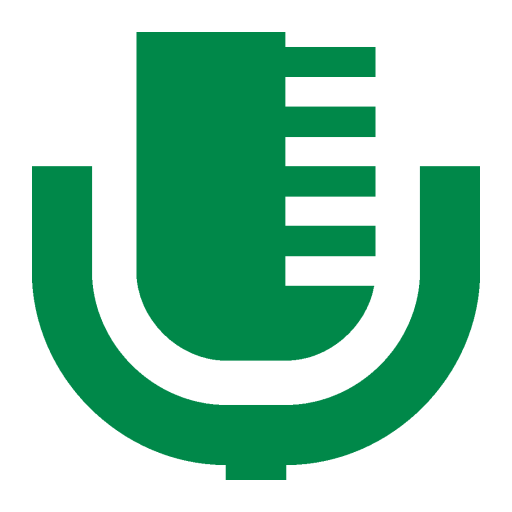
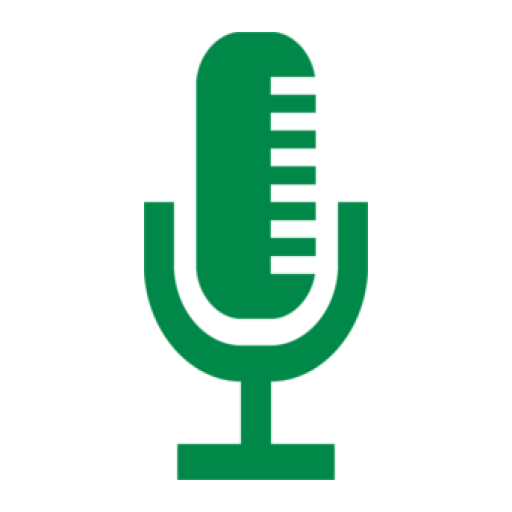
added selectors to ShareFragment layout + pic now saved as ParseFile

diff --git a/app/src/main/java/com/gcw/sapienza/places/ShareFragment.java b/app/src/main/java/com/gcw/sapienza/places/ShareFragment.java
@@ -1,5 +1,6 @@
 package com.gcw.sapienza.places;
 
+import android.app.Activity;
 import android.content.Context;
 import android.graphics.Bitmap;
 import android.location.Location;
@@ -16,6 +17,7 @@ import android.view.animation.AlphaAnimation;
 import android.view.inputmethod.InputMethodManager;
 import android.widget.Button;
 import android.widget.FrameLayout;
+import android.widget.ImageButton;
 import android.widget.ImageView;
 import android.widget.Spinner;
 import android.widget.TextView;
@@ -30,6 +32,7 @@ import com.parse.ParseAnalytics;
 import com.parse.ParseException;
 import com.parse.ParseFile;
 import com.parse.ParseGeoPoint;
+import com.parse.ProgressCallback;
 import com.parse.SaveCallback;
 
 import java.io.ByteArrayOutputStream;
@@ -50,9 +53,9 @@ public class ShareFragment extends Fragment{
     private Button shareButton;
     private FrameLayout progressBarHolder;
 
-    protected static ImageView picButton;
-    protected static ImageView micButton;
-    protected static ImageView vidButton;
+    protected static ImageButton picButton;
+    protected static ImageButton micButton;
+    protected static ImageButton vidButton;
 
     protected static boolean clearMedia = true;
 
@@ -60,8 +63,7 @@ public class ShareFragment extends Fragment{
     protected static boolean isVideoShoot = false;
     protected static boolean isSoundCaptured = false;
 
-    protected static Bitmap pic; // for compatibiity
-    protected static byte[] picture;
+    protected static Bitmap pic;
     protected static byte[] video;
     protected static byte[] audio;
 
@@ -89,9 +91,9 @@ public class ShareFragment extends Fragment{
 
         this.progressBarHolder = (FrameLayout)mView.findViewById(R.id.frame_layout);
 
-        this.picButton = (ImageView)mView.findViewById(R.id.pic_button);
-        this.micButton = (ImageView)mView.findViewById(R.id.mic_button);
-        this.vidButton = (ImageView)mView.findViewById(R.id.vid_button);
+        this.picButton = (ImageButton)mView.findViewById(R.id.pic_button);
+        this.micButton = (ImageButton)mView.findViewById(R.id.mic_button);
+        this.vidButton = (ImageButton)mView.findViewById(R.id.vid_button);
 
         this.picButton.setOnLongClickListener((View.OnLongClickListener)getActivity());
         this.micButton.setOnLongClickListener((View.OnLongClickListener)getActivity());
@@ -211,9 +213,24 @@ public class ShareFragment extends Fragment{
                         Log.v(TAG, "Successfully retrieved pic.");
 
                         ByteArrayOutputStream stream = new ByteArrayOutputStream();
-                        pic.compress(Bitmap.CompressFormat.JPEG, 100, stream);
-                        byte[] byteArray = stream.toByteArray();
-                        f.put("pic", byteArray);
+                        pic.compress(Bitmap.CompressFormat.PNG, 100, stream);
+                        byte[] pic_byteArray = stream.toByteArray();
+
+                        ParseFile parse_pic = new ParseFile(System.currentTimeMillis()+".png", pic_byteArray);
+
+                        parse_pic.saveInBackground(new SaveCallback() {
+                            @Override
+                            public void done(ParseException e)
+                            {
+                                if(e != null) Toast.makeText(getActivity(), "Error encountered while uploading picture", Toast.LENGTH_LONG).show();
+                            }
+                        }, new ProgressCallback() {
+                            @Override
+                            public void done(Integer integer) {
+                                // TODO maybe we could display a progress bar while uploading pic
+                            }
+                        });
+                        f.put("picture", parse_pic);
                     }
                 }
 
@@ -231,8 +248,18 @@ public class ShareFragment extends Fragment{
 
                         ParseFile parse_audio = new ParseFile(System.currentTimeMillis()+".3gp", ShareFragment.audio);
 
-                        // TODO maybe we should wait for it, in the meantime showing a progress bar
-                        parse_audio.saveInBackground();
+                        parse_audio.saveInBackground(new SaveCallback() {
+                            @Override
+                            public void done(ParseException e)
+                            {
+                                if(e != null) Toast.makeText(getActivity(), "Error encountered while uploading recording", Toast.LENGTH_LONG).show();
+                            }
+                        }, new ProgressCallback() {
+                            @Override
+                            public void done(Integer integer) {
+                                // TODO maybe we could display a progress bar while uploading recording
+                            }
+                        });
                         f.put("audio", parse_audio);
                     }
                 }
@@ -295,41 +322,58 @@ public class ShareFragment extends Fragment{
     protected void setPicButtonAsPicTaken()
     {
         this.mView = getView();
-        this.picButton = (ImageView)this.mView.findViewById(R.id.pic_button);
-        this.picButton.setAlpha(MEDIA_AVAILABLE_ALPHA);
+        this.picButton = (ImageButton)this.mView.findViewById(R.id.pic_button);
+        this.picButton.setImageDrawable(getResources().getDrawable(R.drawable.camera_green_taken));
     }
 
     @Override
     public void onResume() {
         super.onResume();
 
+        Log.v(TAG, "onResume called in ShareFragment");
+
         onVisiblePage();
+    }
+
+    @Override
+    public void onAttach(Activity activity) {
+        super.onAttach(activity);
+
+        Log.v(TAG, "onAttach called in ShareFragment");
+
+        // onVisiblePage();
     }
 
     public void onVisiblePage()
     {
         Log.v(TAG, "ShareFragment visible!");
 
+        if(!isAdded())
+        {
+            Log.v(TAG, "ShareFragment not attached to MainActivity");
+            return;
+        }
+
         if(mView == null) mView = getView();
         if(mView != null)
         {
-            picButton = (ImageView)mView.findViewById(R.id.pic_button);
-            micButton = (ImageView)mView.findViewById(R.id.mic_button);
+            picButton = (ImageButton)mView.findViewById(R.id.pic_button);
+            micButton = (ImageButton)mView.findViewById(R.id.mic_button);
 
             if (pic != null) {
                 isPicTaken = true;
-                this.picButton.setAlpha(MEDIA_AVAILABLE_ALPHA);
+                this.picButton.setImageDrawable(getResources().getDrawable(R.drawable.camera_green_taken));
             } else {
                 isPicTaken = false;
-                this.picButton.setAlpha(1f);
+                this.picButton.setImageDrawable(getResources().getDrawable(R.drawable.cam_selector));
             }
 
             if (audio != null) {
                 isSoundCaptured = true;
-                this.micButton.setAlpha(MEDIA_AVAILABLE_ALPHA);
+                this.micButton.setImageDrawable(getResources().getDrawable(R.drawable.mic_green_taken));
             } else {
                 isSoundCaptured = false;
-                this.micButton.setAlpha(1f);
+                this.micButton.setImageDrawable(getResources().getDrawable(R.drawable.mic_selector));
             }
         }
     }
@@ -353,11 +397,13 @@ public class ShareFragment extends Fragment{
 
         this.textView.setText("");
 
-        this.picButton = (ImageView)this.mView.findViewById(R.id.pic_button);
-        this.picButton.setAlpha(1f);
+        this.spinner.setSelection(0);
 
-        this.micButton = (ImageView)this.mView.findViewById(R.id.mic_button);
-        this.micButton.setAlpha(1f);
+        this.picButton = (ImageButton)this.mView.findViewById(R.id.pic_button);
+        this.picButton.setImageDrawable(getResources().getDrawable(R.drawable.cam_selector));
+
+        this.micButton = (ImageButton)this.mView.findViewById(R.id.mic_button);
+        this.micButton.setImageDrawable(getResources().getDrawable(R.drawable.mic_selector));
 
         hideKeyboard();
 

diff --git a/app/src/main/java/com/gcw/sapienza/places/MainActivity.java b/app/src/main/java/com/gcw/sapienza/places/MainActivity.java
@@ -6,12 +6,14 @@ import android.app.ProgressDialog;
 import android.content.Context;
 import android.content.DialogInterface;
 import android.content.Intent;
+import android.content.SharedPreferences;
 import android.content.res.Resources;
 import android.graphics.Bitmap;
 import android.location.LocationManager;
 import android.media.MediaRecorder;
 import android.os.Bundle;
 import android.os.Environment;
+import android.os.PersistableBundle;
 import android.os.Vibrator;
 import android.provider.MediaStore;
 import android.support.v4.app.Fragment;
@@ -25,12 +27,10 @@ import android.view.Gravity;
 import android.view.Menu;
 import android.view.MenuItem;
 import android.view.View;
-import android.view.ViewGroup;
-import android.view.animation.Animation;
+import android.widget.ImageButton;
 import android.widget.TextView;
 import android.widget.Toast;
 
-import com.gcw.sapienza.places.services.LocationService;
 import com.gcw.sapienza.places.utils.FacebookUtilCallback;
 import com.gcw.sapienza.places.utils.FacebookUtils;
 import com.gcw.sapienza.places.utils.Utils;
@@ -42,9 +42,7 @@ import com.parse.ui.ParseLoginBuilder;
 import java.io.ByteArrayOutputStream;
 import java.io.File;
 import java.io.FileInputStream;
-import java.io.FileNotFoundException;
 import java.io.IOException;
-import java.io.InputStream;
 import java.util.Arrays;
 import java.util.Date;
 
@@ -109,11 +107,10 @@ public class MainActivity extends ActionBarActivity implements ViewPager.OnPageC
             this.startDownloadingFacebookInfo();
         }
 
+        if(savedInstanceState != null) ShareFragment.audio = savedInstanceState.getByteArray("audio");
 
         Resources res = getResources();
         Utils.categories = res.getStringArray(R.array.categories);
-
-        for(int i = 0; i < fragments.length; i++) fragments[i].setRetainInstance(true);
     }
 
     private void startDownloadingFacebookInfo(){
@@ -148,8 +145,13 @@ public class MainActivity extends ActionBarActivity implements ViewPager.OnPageC
         }
     }
 
-    protected void onSaveInstanceState(Bundle outState) {
+    protected void onSaveInstanceState(Bundle outState)
+    {
         super.onSaveInstanceState(outState);
+
+        Log.v(TAG, "onSaveInstanceState called!");
+
+        outState.putByteArray("audio", ShareFragment.audio);
     }
 
     @Override
@@ -271,14 +273,13 @@ public class MainActivity extends ActionBarActivity implements ViewPager.OnPageC
                         case DialogInterface.BUTTON_POSITIVE:
                             if(v.getId() == ShareFragment.picButton.getId())
                             {
-                                ShareFragment.picButton.setAlpha(1f);
+                                ShareFragment.picButton.setImageDrawable(getResources().getDrawable(R.drawable.cam_selector));
                                 ShareFragment.isPicTaken = false;
-                                ShareFragment.pic = null; // this is supposed to disappear in future releases
-                                ShareFragment.picture = null;
+                                ShareFragment.pic = null;
                             }
                             else if (v.getId() == ShareFragment.micButton.getId())
                             {
-                                ShareFragment.micButton.setAlpha(1f);
+                                ShareFragment.micButton.setImageDrawable(getResources().getDrawable(R.drawable.mic_selector));
                                 ShareFragment.isSoundCaptured = false;
                                 ShareFragment.audio = null;
                             }
@@ -483,7 +484,7 @@ public class MainActivity extends ActionBarActivity implements ViewPager.OnPageC
         Vibrator vibrator = (Vibrator) getSystemService(Context.VIBRATOR_SERVICE);
         vibrator.vibrate(Utils.VIBRATION_DURATION);
 
-        if(v.getAlpha() > 0.1f)
+        if(audioRec == null)
         {
             audio_filename = Environment.getExternalStorageDirectory().getAbsolutePath() + "/" + System.currentTimeMillis() + ".3gp";
 
@@ -502,20 +503,20 @@ public class MainActivity extends ActionBarActivity implements ViewPager.OnPageC
             }
 
             audioRec.start();
-            v.setAlpha(0.1f);
+
+            Toast.makeText(this, "Tap mic button again to stop recording", Toast.LENGTH_SHORT).show();
         }
         else
         {
             audioRec.stop();
             audioRec.release();
             audioRec = null;
-            v.setAlpha(ShareFragment.MEDIA_AVAILABLE_ALPHA);
+            ((ImageButton)v).setImageDrawable(getResources().getDrawable(R.drawable.mic_green_taken));
 
             File audio_file = new File(audio_filename);
             try
             {
                 FileInputStream inStream = new FileInputStream(audio_file);
-                byte[] audio = new byte[inStream.available()];
                 ShareFragment.audio = convertStreamToByteArray(inStream);
 
                 inStream.close();

diff --git a/app/src/main/java/com/gcw/sapienza/places/MosaicFragment.java b/app/src/main/java/com/gcw/sapienza/places/MosaicFragment.java
@@ -83,12 +83,23 @@ public class MosaicFragment extends Fragment{
 
                 Bundle bundle = new Bundle();
 
-                    bundle.putString("text", ((Flag) parent.getItemAtPosition(position)).getText());
-                    bundle.putString("id", ((Flag) parent.getItemAtPosition(position)).getFbId());
-                    bundle.putString("date", sDate);
-                    bundle.putByteArray("pic", ((Flag) parent.getItemAtPosition(position)).getPic());
-                    bundle.putString("weather", ((Flag) parent.getItemAtPosition(position)).getWeather());
-                    bundle.putString("category", ((Flag) parent.getItemAtPosition(position)).getCategory());
+                bundle.putString("text", ((Flag) parent.getItemAtPosition(position)).getText());
+                bundle.putString("id", ((Flag) parent.getItemAtPosition(position)).getFbId());
+                bundle.putString("date", sDate);
+                // bundle.putByteArray("pic", ((Flag) parent.getItemAtPosition(position)).getPic());
+                bundle.putString("weather", ((Flag) parent.getItemAtPosition(position)).getWeather());
+                bundle.putString("category", ((Flag) parent.getItemAtPosition(position)).getCategory());
+
+                try {
+                    ParseFile pic_file;
+                    if((pic_file = ((Flag) parent.getItemAtPosition(position)).getPic()) != null)
+                        bundle.putByteArray("picture", pic_file.getData());
+                }
+                catch(com.parse.ParseException pe)
+                {
+                    Log.v(TAG, "Parse file couldn't be retrieved");
+                    pe.printStackTrace();
+                }
 
                 try {
                     ParseFile audio_file;

diff --git a/app/src/main/java/com/gcw/sapienza/places/activities/FlagsListFragment.java b/app/src/main/java/com/gcw/sapienza/places/activities/FlagsListFragment.java
@@ -24,6 +24,7 @@ import com.gcw.sapienza.places.utils.FacebookUtilCallback;
 import com.gcw.sapienza.places.utils.FacebookUtils;
 import com.parse.FindCallback;
 import com.parse.ParseException;
+import com.parse.ParseFile;
 import com.parse.ParseGeoPoint;
 import com.parse.ParseQuery;
 import com.squareup.picasso.Picasso;
@@ -106,7 +107,22 @@ class FlagsAdapter extends RecyclerView.Adapter <FlagsAdapter.FlagsViewHolder>{
             }
         });
 
-        byte[] pic = f.getPic();
+        byte[] pic = null;
+
+        try
+        {
+            if(f.getPic() != null)
+            {
+                pic = new byte[f.getPic().getData().length];
+                System.arraycopy(f.getPic().getData(), 0, pic, 0, pic.length);
+            }
+        }
+        catch(com.parse.ParseException pe)
+        {
+            Log.v(TAG, "Parse file couldn't be retrieved");
+            pe.printStackTrace();
+        }
+
         if(pic != null){
             flagViewHolder.main_image.setImageBitmap(BitmapFactory.decodeByteArray(pic, 0, pic.length));
             flagViewHolder.main_image.setVisibility(View.VISIBLE);

diff --git a/app/src/main/java/com/gcw/sapienza/places/FlagActivity.java b/app/src/main/java/com/gcw/sapienza/places/FlagActivity.java
@@ -57,10 +57,10 @@ public class FlagActivity extends Activity {
 
         ImageView iw = ((ImageView)findViewById(R.id.pic));
 
-        if(bundle.getByteArray("pic") != null)
+        if(bundle.getByteArray("picture") != null)
         {
-            pic = new byte[bundle.getByteArray("pic").length];
-            System.arraycopy(bundle.getByteArray("pic"), 0, pic, 0, pic.length);
+            pic = new byte[bundle.getByteArray("picture").length];
+            System.arraycopy(bundle.getByteArray("picture"), 0, pic, 0, pic.length);
             iw.setImageBitmap(BitmapFactory.decodeByteArray(pic, 0, pic.length));
         }
         else

diff --git a/app/src/main/java/com/gcw/sapienza/places/model/Flag.java b/app/src/main/java/com/gcw/sapienza/places/model/Flag.java
@@ -35,9 +35,9 @@ public class Flag extends ParseObject{
         return (ParseGeoPoint)this.get("location");
     }
 
-    public Date getDate() { return (Date)this.getCreatedAt(); }
+    public Date getDate() { return this.getCreatedAt(); }
 
-    public byte[] getPic() { return (byte[])this.get("pic"); }
+    public ParseFile getPic() { return (ParseFile)this.get("picture"); }
 
     public String getWeather() { return (String)this.get("weather");  }
 
